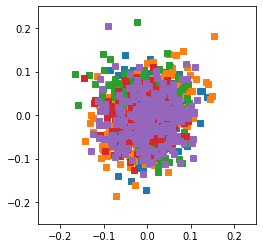
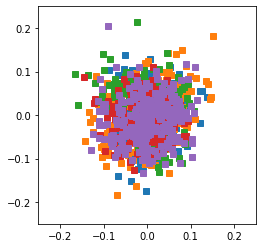
regenerated README

diff --git a/README.md b/README.md
@@ -145,6 +145,50 @@ cams, distorts, rigids_cb, rigids_cam, debug = calib_multi(imgs, cb_geom, detect
      - Iteration: 004 - Norm:   53.26645 - Loss:    1.69542
      - Iteration: 005 - Norm:    0.00000 - Loss:    1.69542
     Refining control points for: SERIAL_16276941_DATETIME_2019-06-07-00:38:48-109732_CAM_2_FRAMEID_0_COUNTER_2...
+    Refining control points for: SERIAL_16276941_DATETIME_2019-06-07-00:38:19-438631_CAM_2_FRAMEID_0_COUNTER_1...
+    Refining single parameters...
+     - Iteration: 000 - Norm:    0.04100 - Loss:  145.66077
+     - Iteration: 001 - Norm:    0.13687 - Loss:   83.93632
+     - Iteration: 002 - Norm:    0.84322 - Loss:    3.98970
+     - Iteration: 003 - Norm:    0.27753 - Loss:    3.59056
+     - Iteration: 004 - Norm:    6.15321 - Loss:    3.37721
+     - Iteration: 005 - Norm:   21.15929 - Loss:    2.63034
+     - Iteration: 006 - Norm:    0.00000 - Loss:    2.63034
+    Refining control points for: SERIAL_16276942_DATETIME_2019-06-07-00:38:19-438636_CAM_3_FRAMEID_0_COUNTER_1...
+    Refining control points for: SERIAL_16276942_DATETIME_2019-06-07-00:38:48-109736_CAM_3_FRAMEID_0_COUNTER_2...
+    Refining single parameters...
+     - Iteration: 000 - Norm:    0.04608 - Loss:   59.65914
+     - Iteration: 001 - Norm:    0.17380 - Loss:   21.75514
+     - Iteration: 002 - Norm:    0.19863 - Loss:   10.38609
+     - Iteration: 003 - Norm:    0.12684 - Loss:   10.02735
+     - Iteration: 004 - Norm:   89.80364 - Loss:    5.97723
+     - Iteration: 005 - Norm:   16.31843 - Loss:    1.76116
+     - Iteration: 006 - Norm:    0.00000 - Loss:    1.76116
+    Refining multi parameters...
+     - Iteration: 000 - Norm:    0.00057 - Loss:   10.11951
+     - Iteration: 001 - Norm:    0.00073 - Loss:    8.45522
+     - Iteration: 002 - Norm:    0.00083 - Loss:    8.08294
+     - Iteration: 003 - Norm:    0.00103 - Loss:    7.85690
+     - Iteration: 004 - Norm:    0.00327 - Loss:    7.60429
+     - Iteration: 005 - Norm:    0.00038 - Loss:    7.56571
+     - Iteration: 006 - Norm:    0.00485 - Loss:    7.38994
+     - Iteration: 007 - Norm:    0.00338 - Loss:    7.28695
+     - Iteration: 008 - Norm:    0.00295 - Loss:    7.26749
+     - Iteration: 009 - Norm:    0.00387 - Loss:    7.25113
+     - Iteration: 010 - Norm:    0.01174 - Loss:    7.20809
+     - Iteration: 011 - Norm:    0.00257 - Loss:    7.20042
+     - Iteration: 012 - Norm:    0.00234 - Loss:    7.19642
+     - Iteration: 013 - Norm:    0.00498 - Loss:    7.18732
+     - Iteration: 014 - Norm:    0.00004 - Loss:    7.18730
+     - Iteration: 015 - Norm:    0.02043 - Loss:    7.16305
+     - Iteration: 016 - Norm:    0.00034 - Loss:    7.16265
+     - Iteration: 017 - Norm:    0.01936 - Loss:    7.14358
+     - Iteration: 018 - Norm:    0.00091 - Loss:    7.14324
+     - Iteration: 019 - Norm:    0.03660 - Loss:    7.12997
+     - Iteration: 020 - Norm:    0.00000 - Loss:    7.12997
+     - Iteration: 021 - Norm:    0.01197 - Loss:    7.12733
+     - Iteration: 022 - Norm:    0.01581 - Loss:    7.12422
+     - Iteration: 023 - Norm:    0.00000 - Loss:    7.12422
 
 
 From Bo Li's calibration paper, we know the coordinate graph of poses and cameras forms a bipartite graph. For debugging purposes this is displayed below.
@@ -153,6 +197,10 @@ From Bo Li's calibration paper, we know the coordinate graph of poses and camera
 ```python
 draw_bipartite(*debug[2:])
 ```
+
+
+![png](README_files/README_20_0.png)
+
 
 Plot refined and model control points
 
@@ -164,6 +212,26 @@ for idx, img in enumerate(imgs):
     plt.plot(debug[0][idx][:,0], debug[0][idx][:,1], 'rs')
     plt.plot(debug[1][idx][:,0], debug[1][idx][:,1], 'gs')
 ```
+
+
+![png](README_files/README_22_0.png)
+
+
+
+![png](README_files/README_22_1.png)
+
+
+
+![png](README_files/README_22_2.png)
+
+
+
+![png](README_files/README_22_3.png)
+
+
+
+![png](README_files/README_22_4.png)
+
 
 Plot residuals
 
@@ -177,12 +245,34 @@ plt.gca().set_xlim(-0.25, 0.25)
 plt.gca().set_ylim(-0.25, 0.25)
 ```
 
+
+
+
+    (-0.25, 0.25)
+
+
+
+
+![png](README_files/README_24_1.png)
+
+
 Plot extrinsics; note that `%matplotlib notebook` can be used to make the plot interactive
 
 
 ```python
 plot_extrinsics(rigids_cb, rigids_cam, cb_geom)
 ```
+
+
+
+
+    <Axes3DSubplot:>
+
+
+
+
+![png](README_files/README_26_1.png)
+
 
 This matches pretty closely to my camera rig
 
@@ -192,3 +282,9 @@ This matches pretty closely to my camera rig
 ```python
 !jupyter nbconvert --to markdown README.ipynb
 ```
+
+    [NbConvertApp] Converting notebook README.ipynb to markdown
+    [NbConvertApp] Support files will be in README_files/
+    [NbConvertApp] Making directory README_files
+    [NbConvertApp] Writing 6758 bytes to README.md
+
